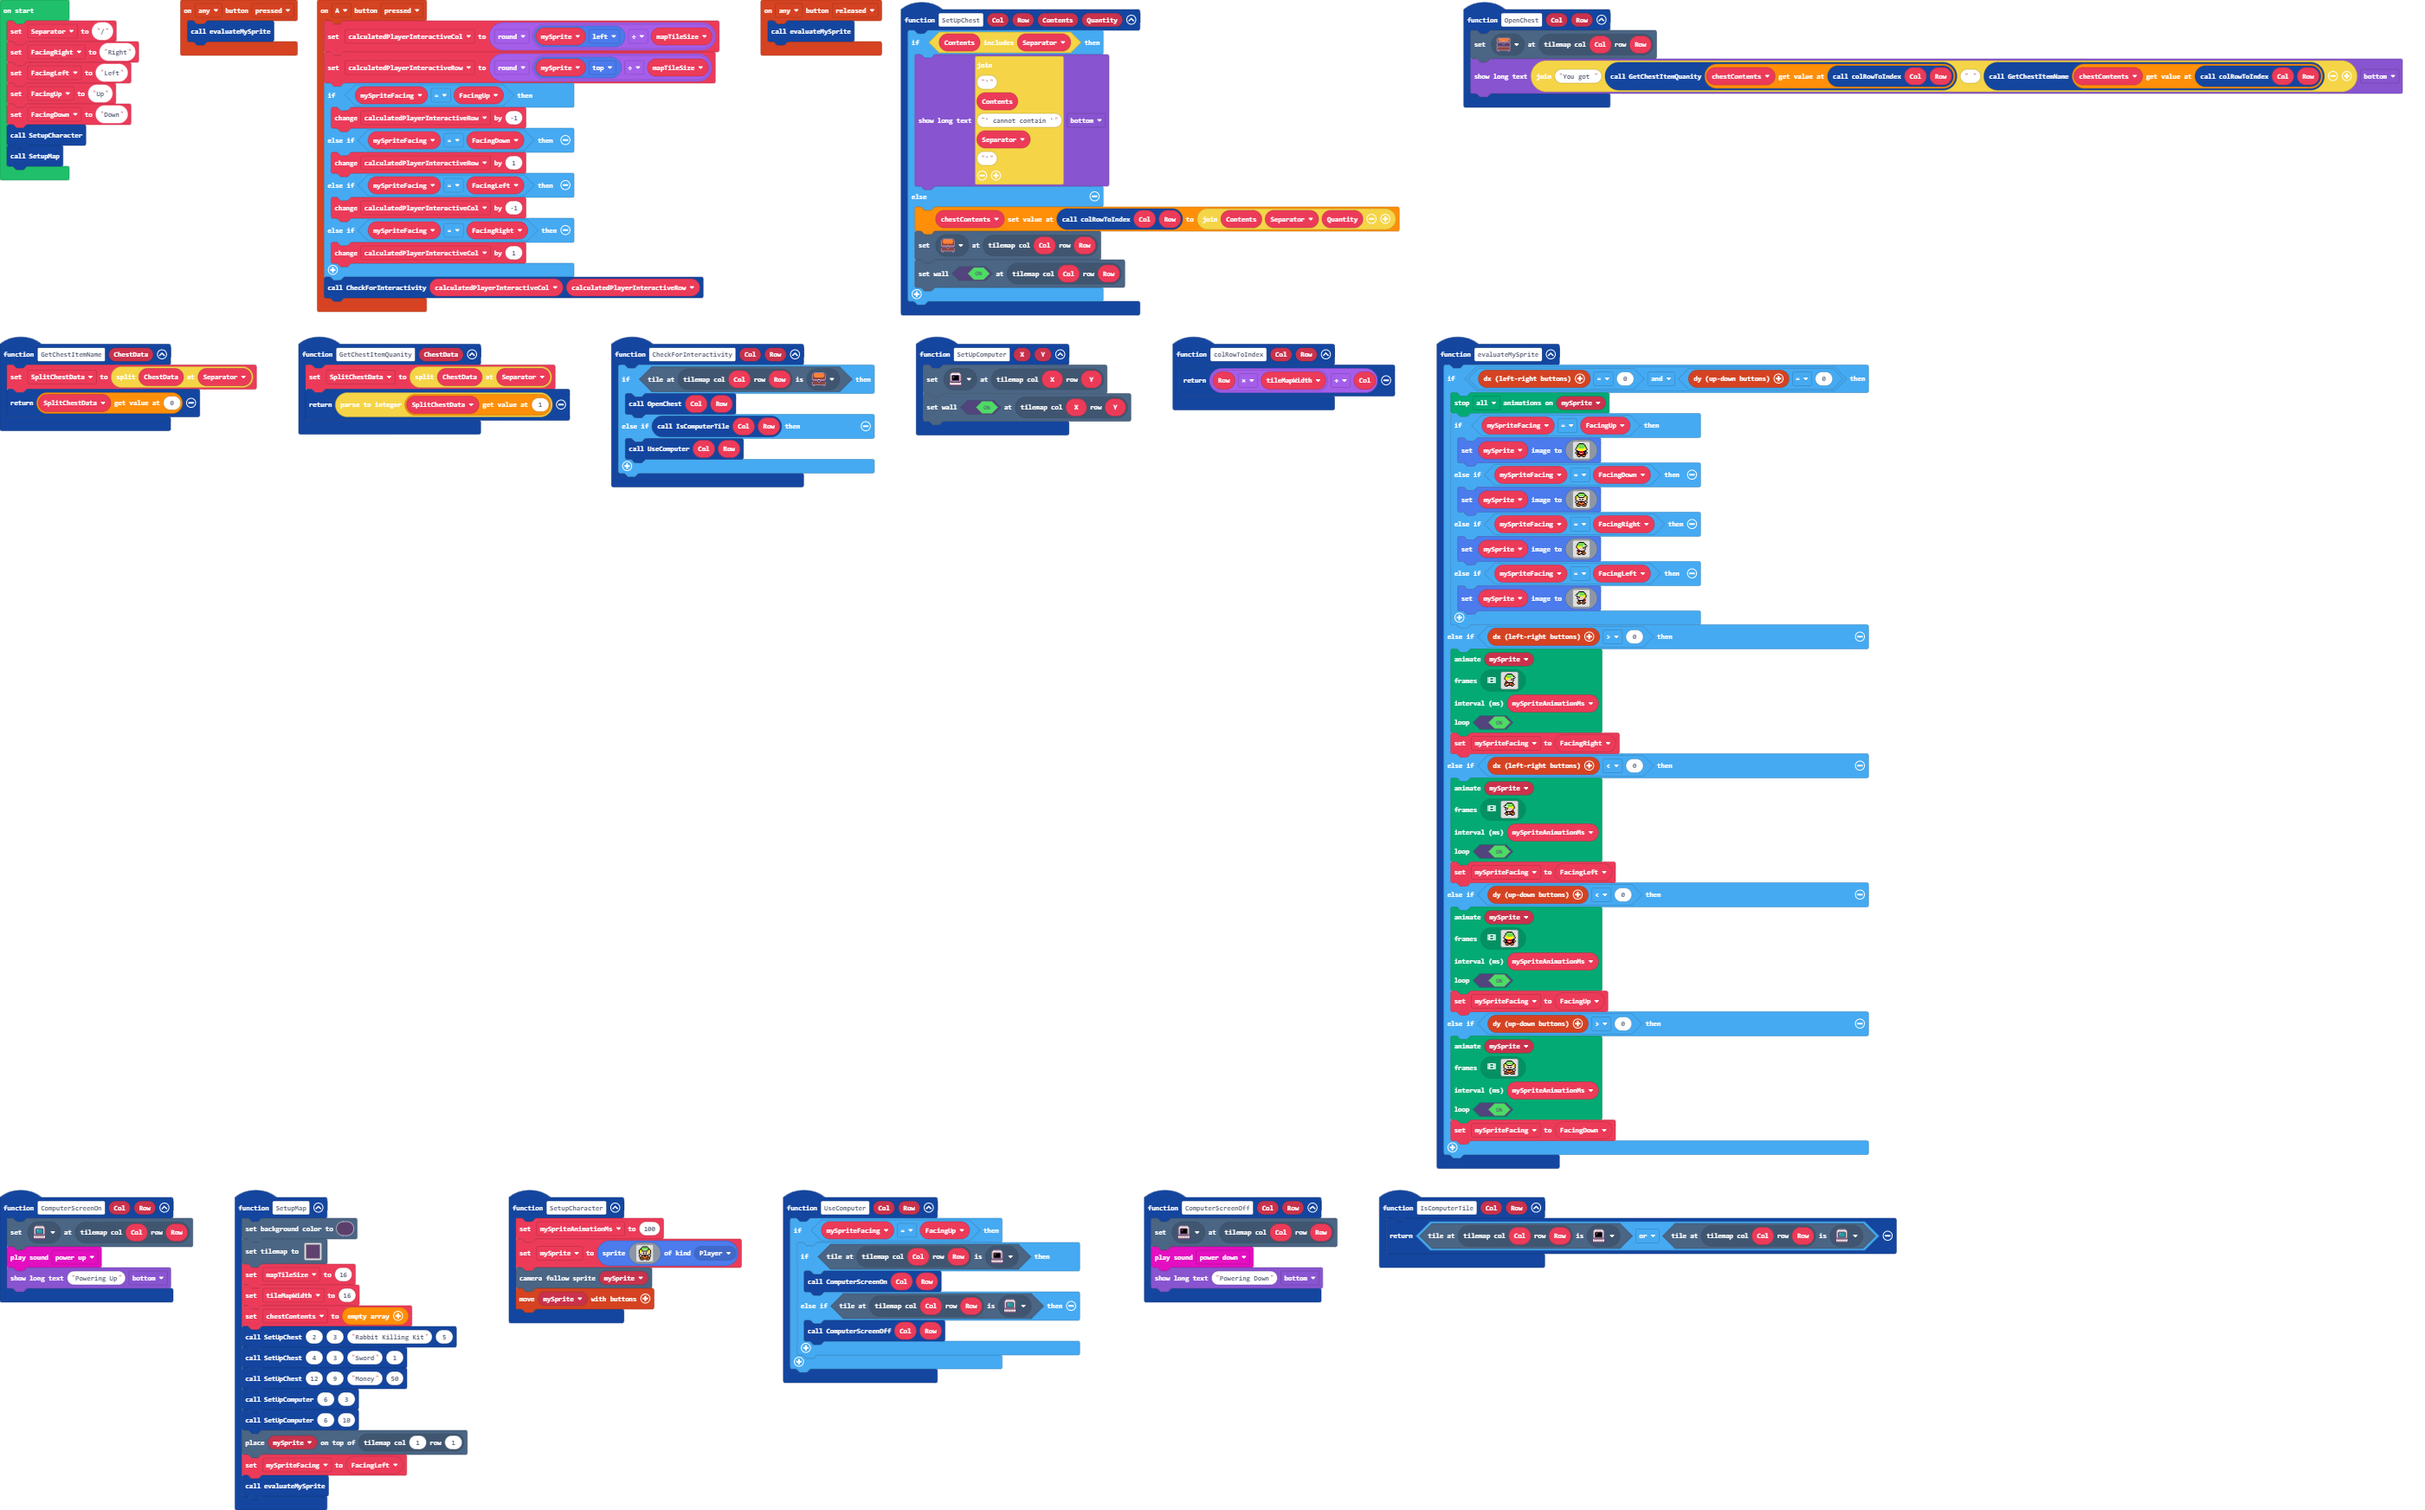
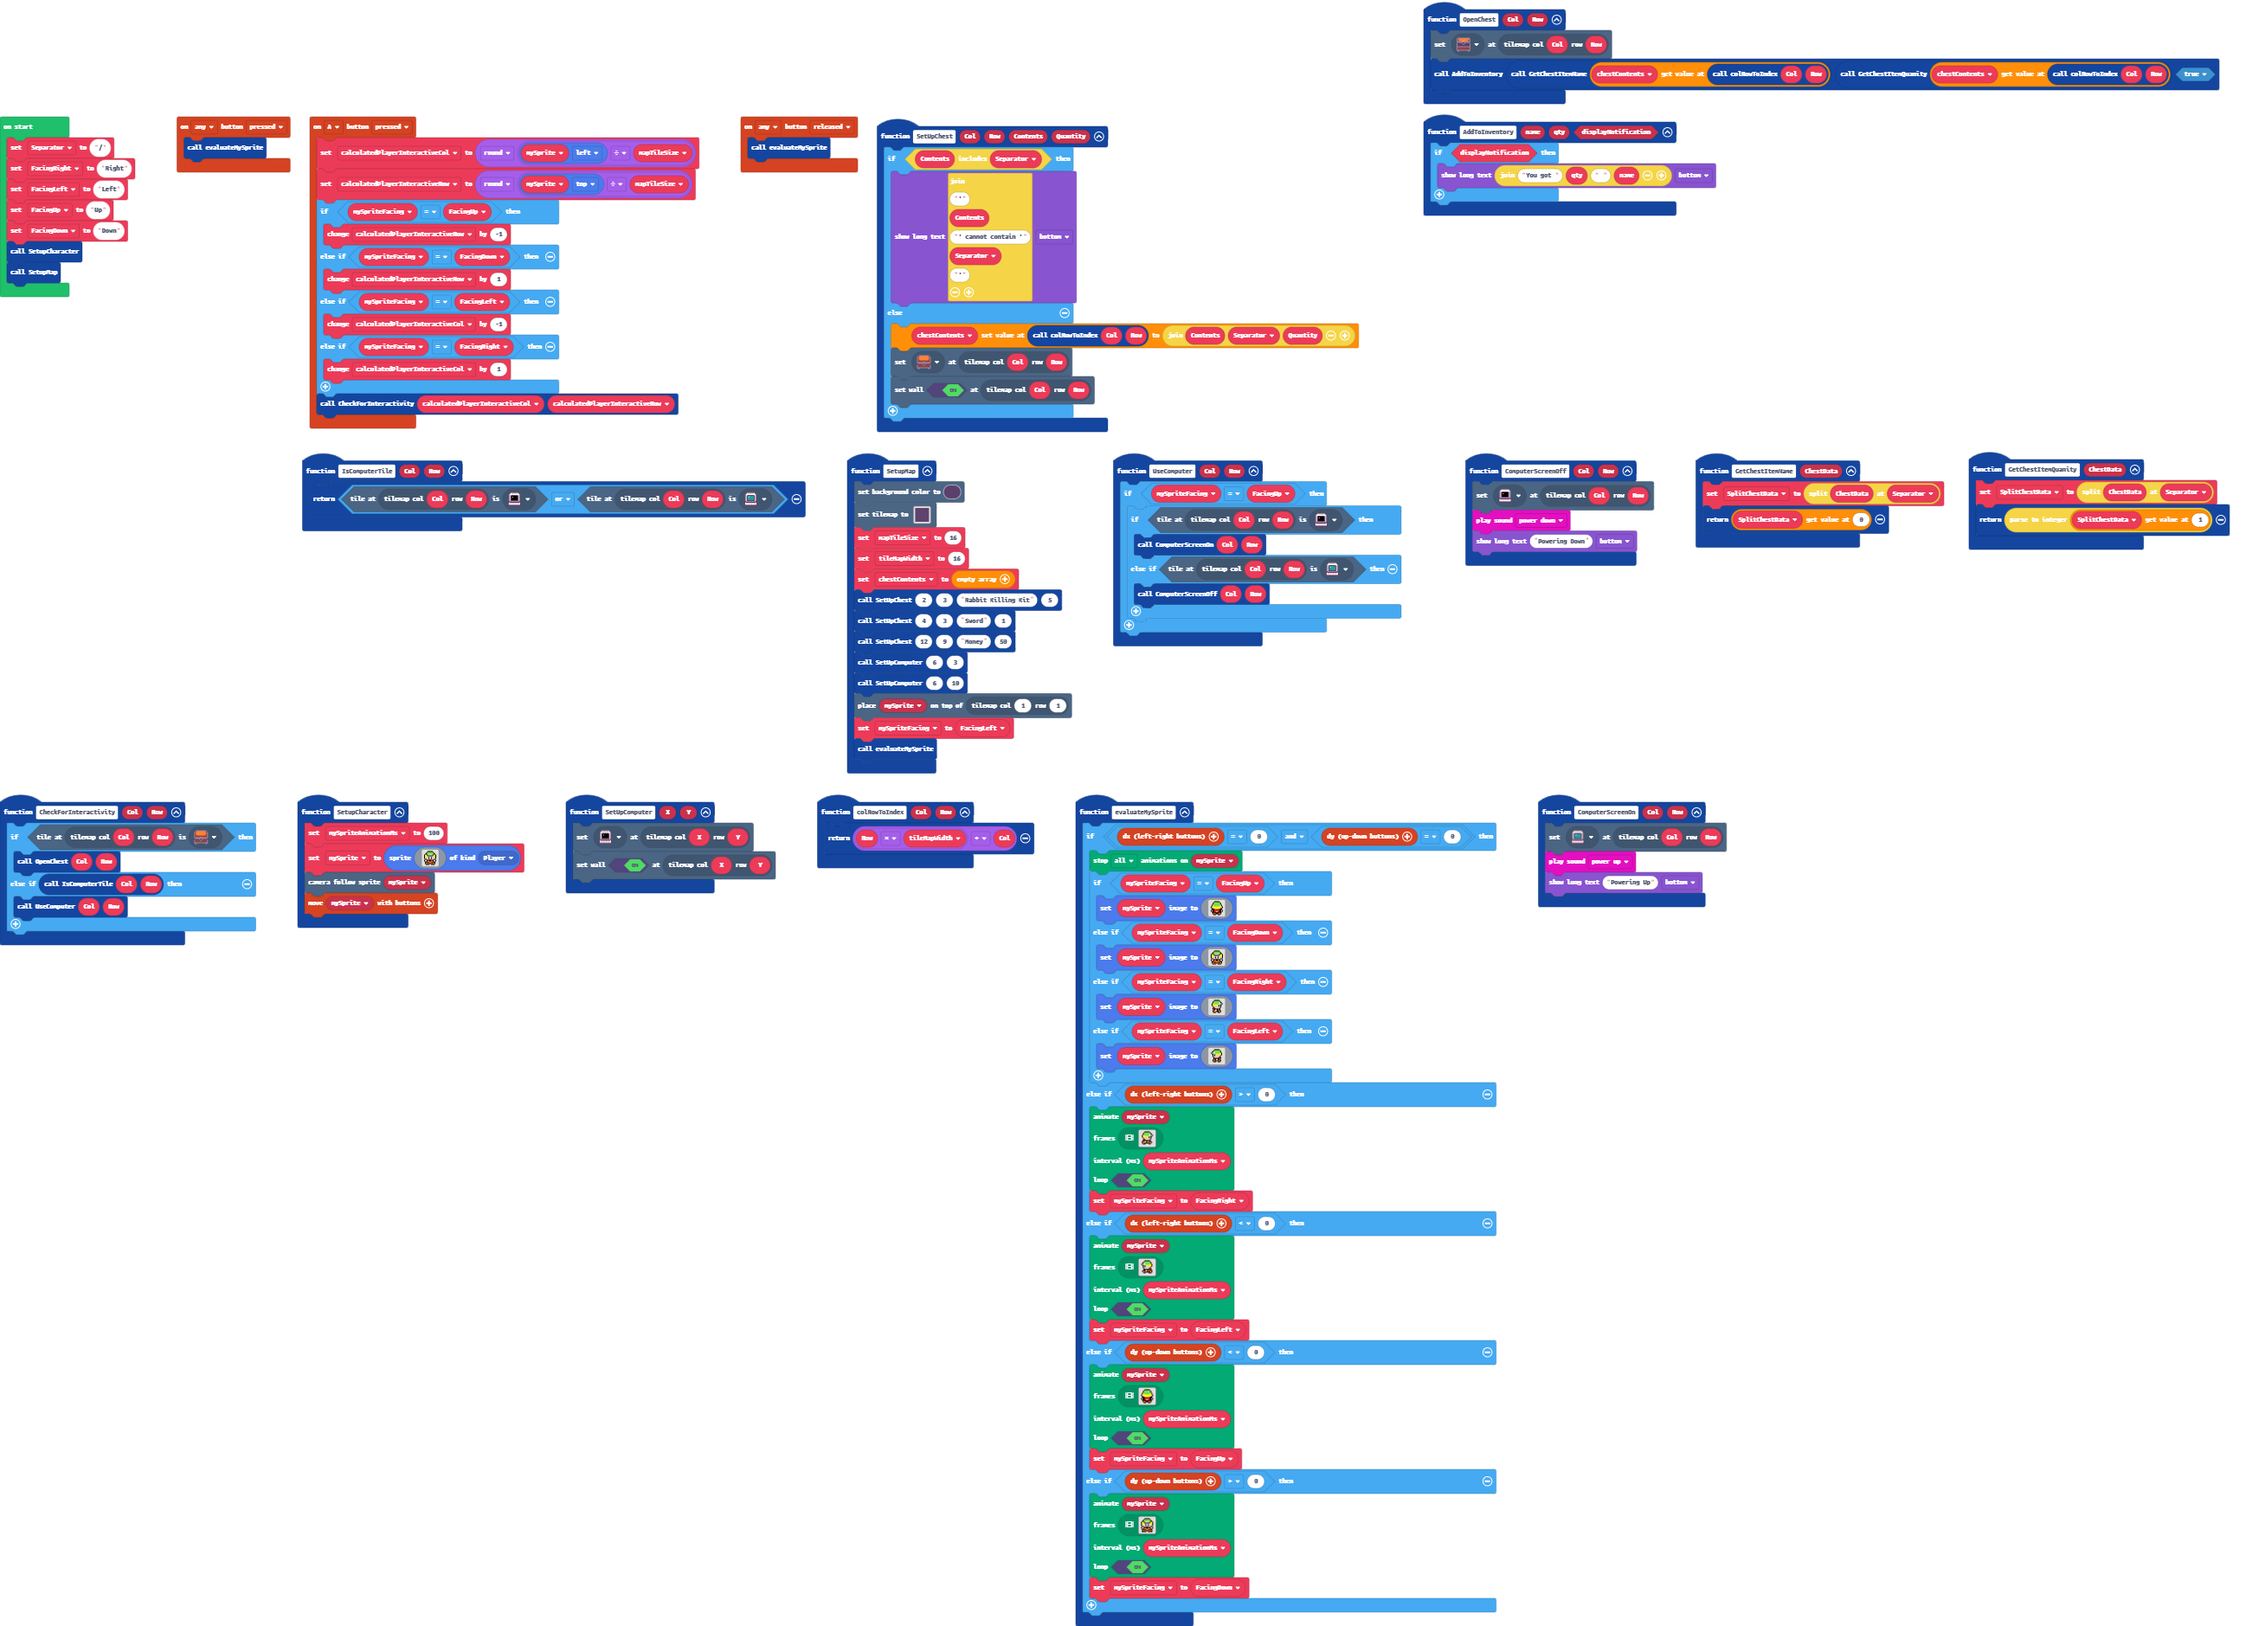
Minor refactoring in preparation for the inventory system.

diff --git a/tilemap.g.ts b/tilemap.g.ts
@@ -298,6 +298,25 @@ namespace myTiles {
 . . . . . . . . . . . . . . . . 
 . . . . . . . . . . . . . . . . 
 `, [myTiles.transparency16], TileScale.Sixteen);
+            case "level16":
+            case "level16":return tiles.createTilemap(hex`1000100000000000000000000000000000000000000000000000000000000000000000000000000000000000000000000000000000000000000000000000000000000000000000000000000000000000000000000000000000000000000000000000000000000000000000000000000000000000000000000000000000000000000000000000000000000000000000000000000000000000000000000000000000000000000000000000000000000000000000000000000000000000000000000000000000000000000000000000000000000000000000000000000000000000000000000000000000000000000000000000000000000000000000000000000000000000`, img`
+. . . . . . . . . . . . . . . . 
+. . . . . . . . . . . . . . . . 
+. . . . . . . . . . . . . . . . 
+. . . . . . . . . . . . . . . . 
+. . . . . . . . . . . . . . . . 
+. . . . . . . . . . . . . . . . 
+. . . . . . . . . . . . . . . . 
+. . . . . . . . . . . . . . . . 
+. . . . . . . . . . . . . . . . 
+. . . . . . . . . . . . . . . . 
+. . . . . . . . . . . . . . . . 
+. . . . . . . . . . . . . . . . 
+. . . . . . . . . . . . . . . . 
+. . . . . . . . . . . . . . . . 
+. . . . . . . . . . . . . . . . 
+. . . . . . . . . . . . . . . . 
+`, [myTiles.transparency16], TileScale.Sixteen);
         }
         return null;
     })

diff --git a/main.ts b/main.ts
@@ -12,7 +12,7 @@ function SetUpChest (Col: number, Row: number, Contents: string, Quantity: numbe
 }
 function OpenChest (Col: number, Row: number) {
     tiles.setTileAt(tiles.getTileLocation(Col, Row), assets.tile`chestOpen`)
-    game.showLongText("You got " + GetChestItemQuanity(chestContents[colRowToIndex(Col, Row)]) + " " + GetChestItemName(chestContents[colRowToIndex(Col, Row)]), DialogLayout.Bottom)
+    AddToInventory(GetChestItemName(chestContents[colRowToIndex(Col, Row)]), GetChestItemQuanity(chestContents[colRowToIndex(Col, Row)]), true)
 }
 controller.anyButton.onEvent(ControllerButtonEvent.Pressed, function () {
     evaluateMySprite()
@@ -86,6 +86,11 @@ function SetupCharacter () {
     mySprite = sprites.create(assets.image`Trainer Blondie Facing Down`, SpriteKind.Player)
     scene.cameraFollowSprite(mySprite)
     controller.moveSprite(mySprite)
+}
+function AddToInventory (name: string, qty: number, displayNotification: boolean) {
+    if (displayNotification) {
+        game.showLongText("You got " + qty + " " + name, DialogLayout.Bottom)
+    }
 }
 function SetUpComputer (X: number, Y: number) {
     tiles.setTileAt(tiles.getTileLocation(X, Y), assets.tile`ComputerScreenOn0`)
